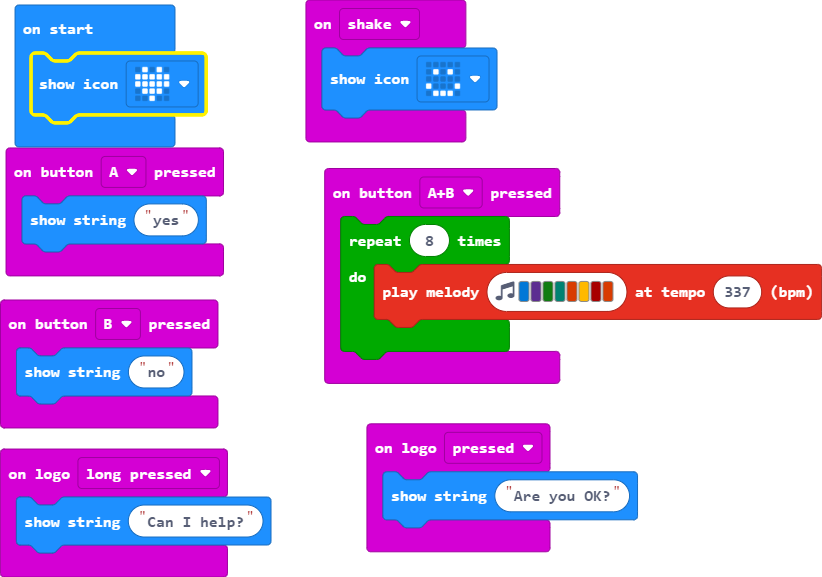
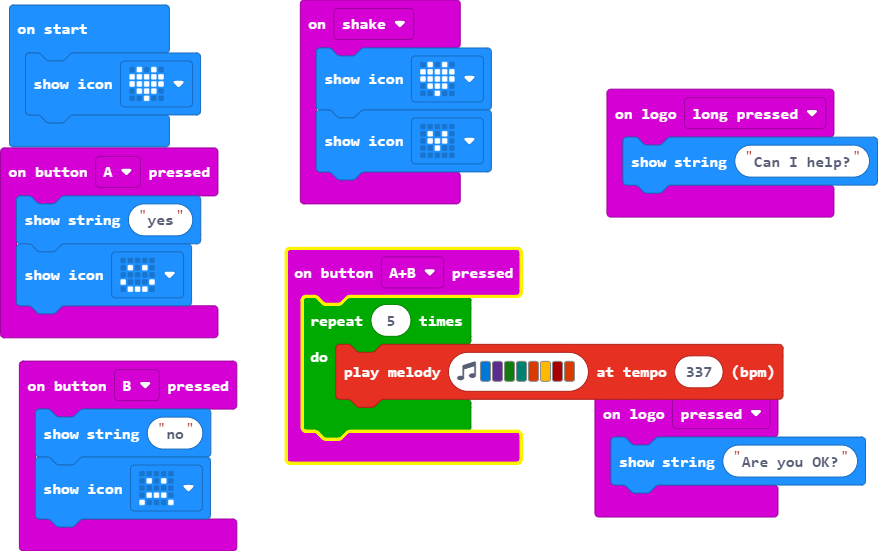
Update main.blocks, main.ts

diff --git a/main.ts b/main.ts
@@ -3,17 +3,20 @@ input.onLogoEvent(TouchButtonEvent.LongPressed, function () {
 })
 input.onButtonPressed(Button.A, function () {
     basic.showString("yes")
+    basic.showIcon(IconNames.Happy)
 })
 input.onButtonPressed(Button.AB, function () {
-    for (let index = 0; index < 8; index++) {
+    for (let index = 0; index < 5; index++) {
         music.playMelody("E D G F B A C5 B ", 337)
     }
 })
 input.onButtonPressed(Button.B, function () {
     basic.showString("no")
+    basic.showIcon(IconNames.Sad)
 })
 input.onGesture(Gesture.Shake, function () {
-    basic.showIcon(IconNames.Happy)
+    basic.showIcon(IconNames.Heart)
+    basic.showIcon(IconNames.SmallHeart)
 })
 input.onLogoEvent(TouchButtonEvent.Pressed, function () {
     basic.showString("Are you OK?")
